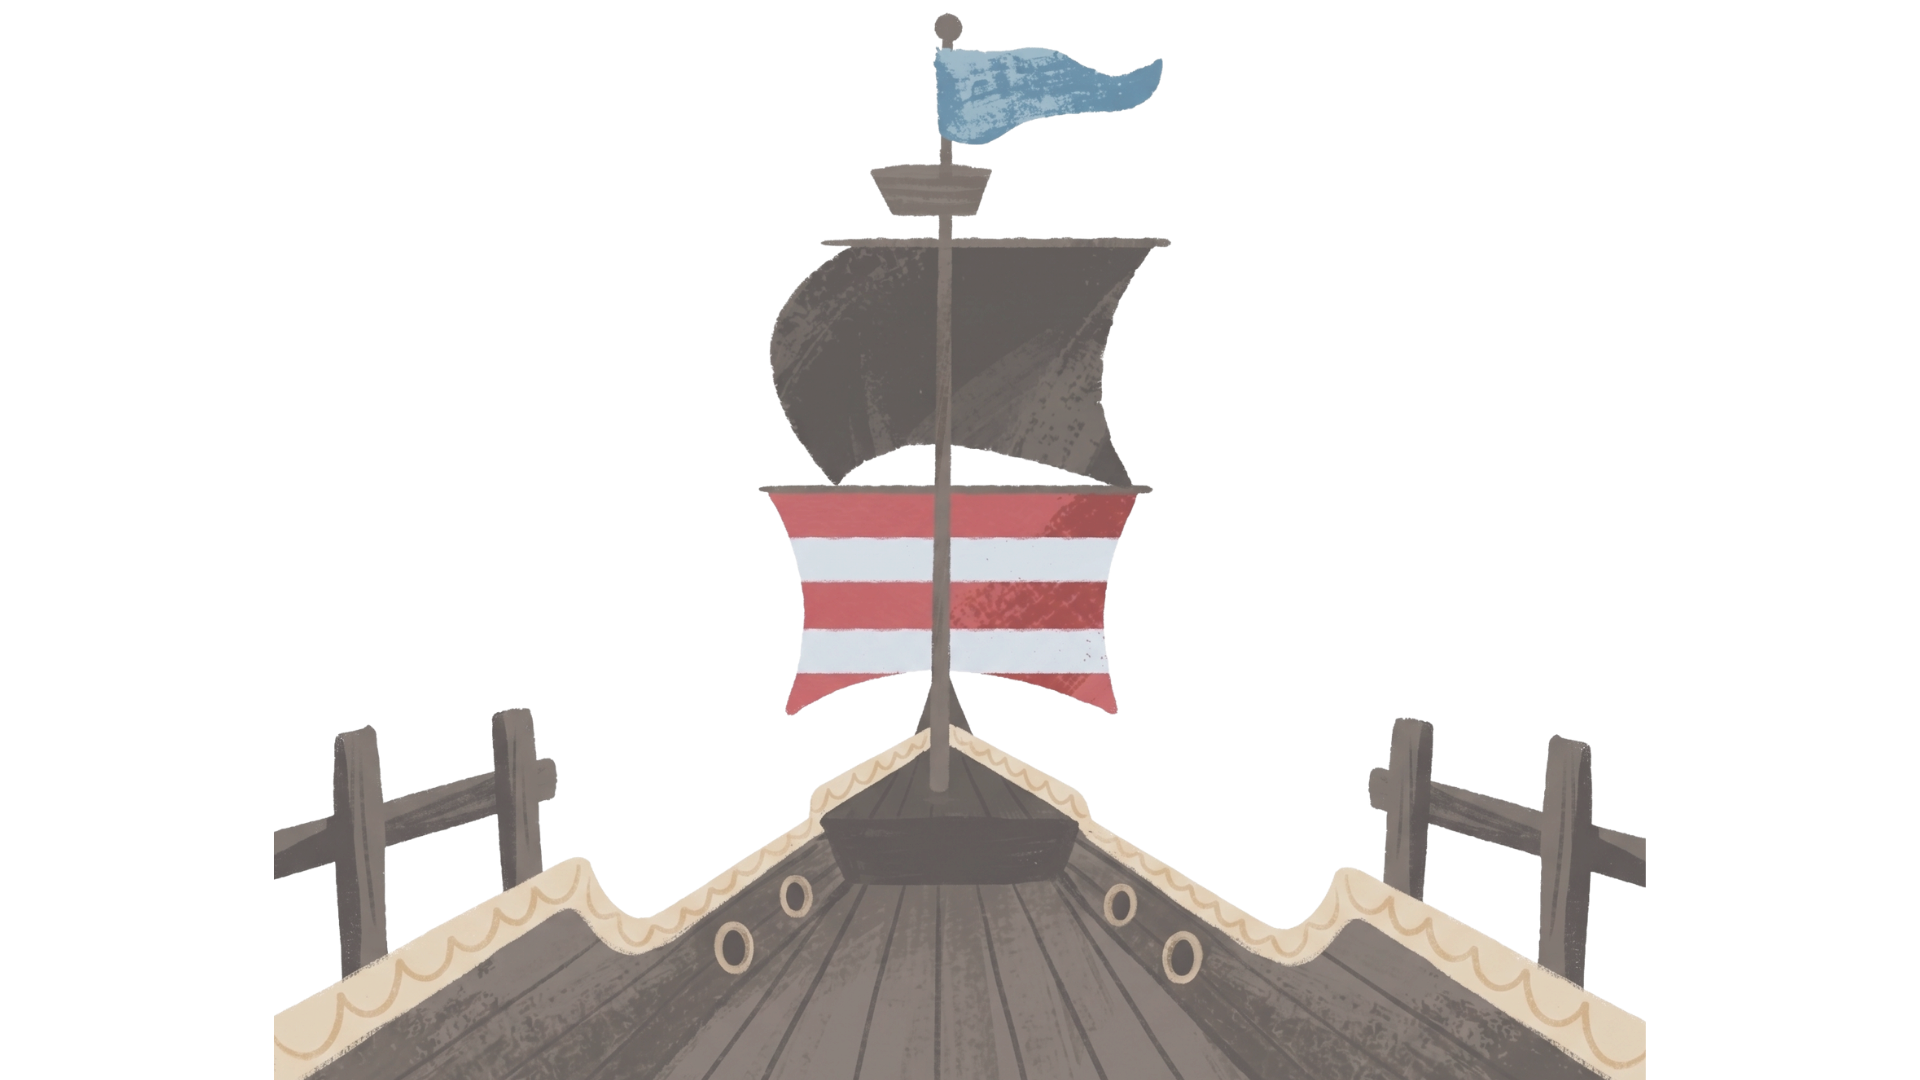
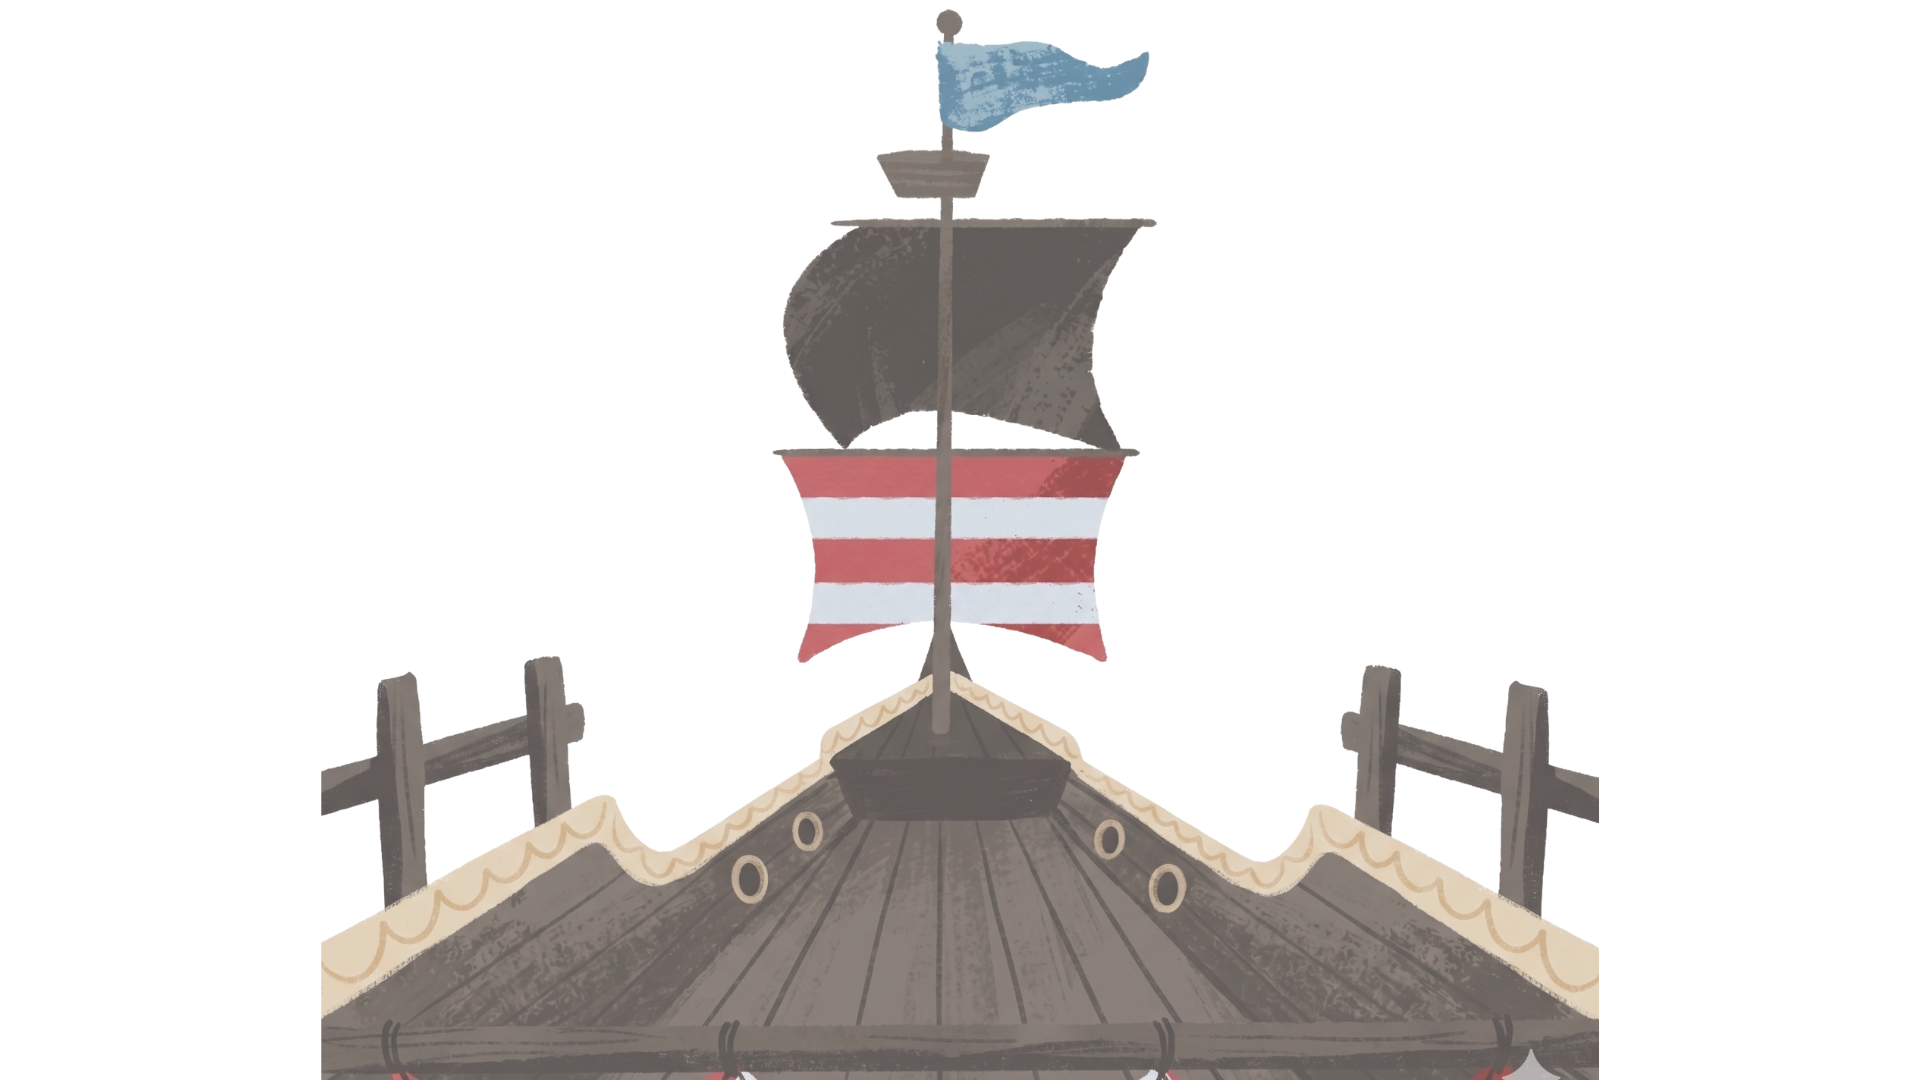
Add files via upload

Changed region(s): [[0.125, 0.3056, 0.875, 1.0], [0.4062, 0.0306, 0.625, 0.3667], [0.2812, 0.8861, 0.3125, 0.9472]]

diff --git a/index.html b/index.html
@@ -105,10 +105,6 @@
             background: url('chest.png') center bottom / contain no-repeat;
         }
 
-        .candy {
-            background: url('candy.png') center bottom / contain no-repeat;
-        }
-
         #dashboard {
             position: absolute;
             bottom: -50px;
@@ -128,7 +124,7 @@
 
         #ship-deck {
             position: absolute;
-            bottom: 0;
+            bottom: 30px;
             width: 120%;
             max-width: 900px;
             height: 350px;
@@ -556,9 +552,8 @@
                 if (state === 'phase1') {
                     type = rand > 0.4 ? 'obstacle' : 'collectible';
                 } else {
-                    if (rand < 0.4) type = 'obstacle';
-                    else if (rand < 0.7) type = 'collectible';
-                    else type = 'candy';
+                    if (rand < 0.5) type = 'obstacle';
+                    else type = 'collectible';
                 }
 
                 let spawnX = (state === 'phase1') ? worldX + (Math.random() * 20 - 10) : (Math.random() * 80) - 40;
@@ -625,7 +620,7 @@
                     score = Math.max(0, score - 5);
                     scoreVal.innerText = score;
                 }
-            } else if (type === 'collectible' || type === 'candy') {
+            } else if (type === 'collectible') {
                 // הצגת הניקוד בדיוק במיקום שהפריט נעלם!
                 showPointsNextToObj(vLeft, vTop, "+10");
 